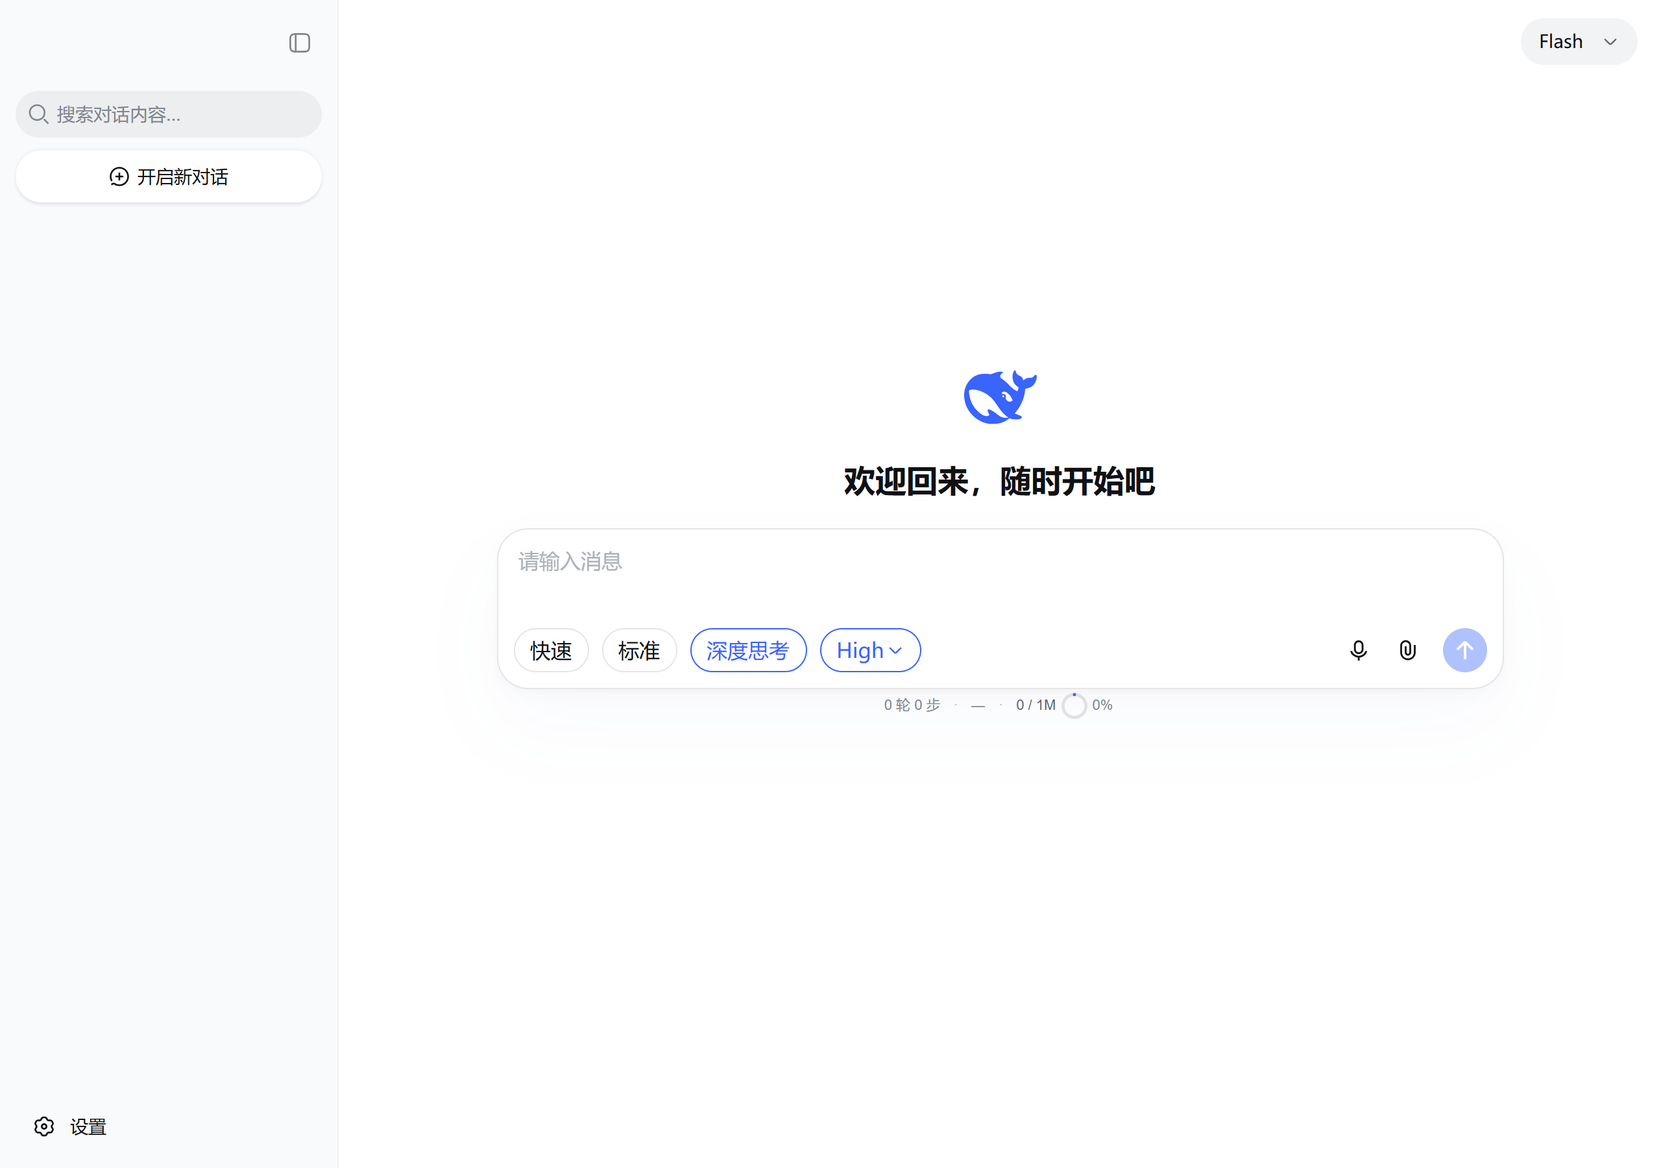
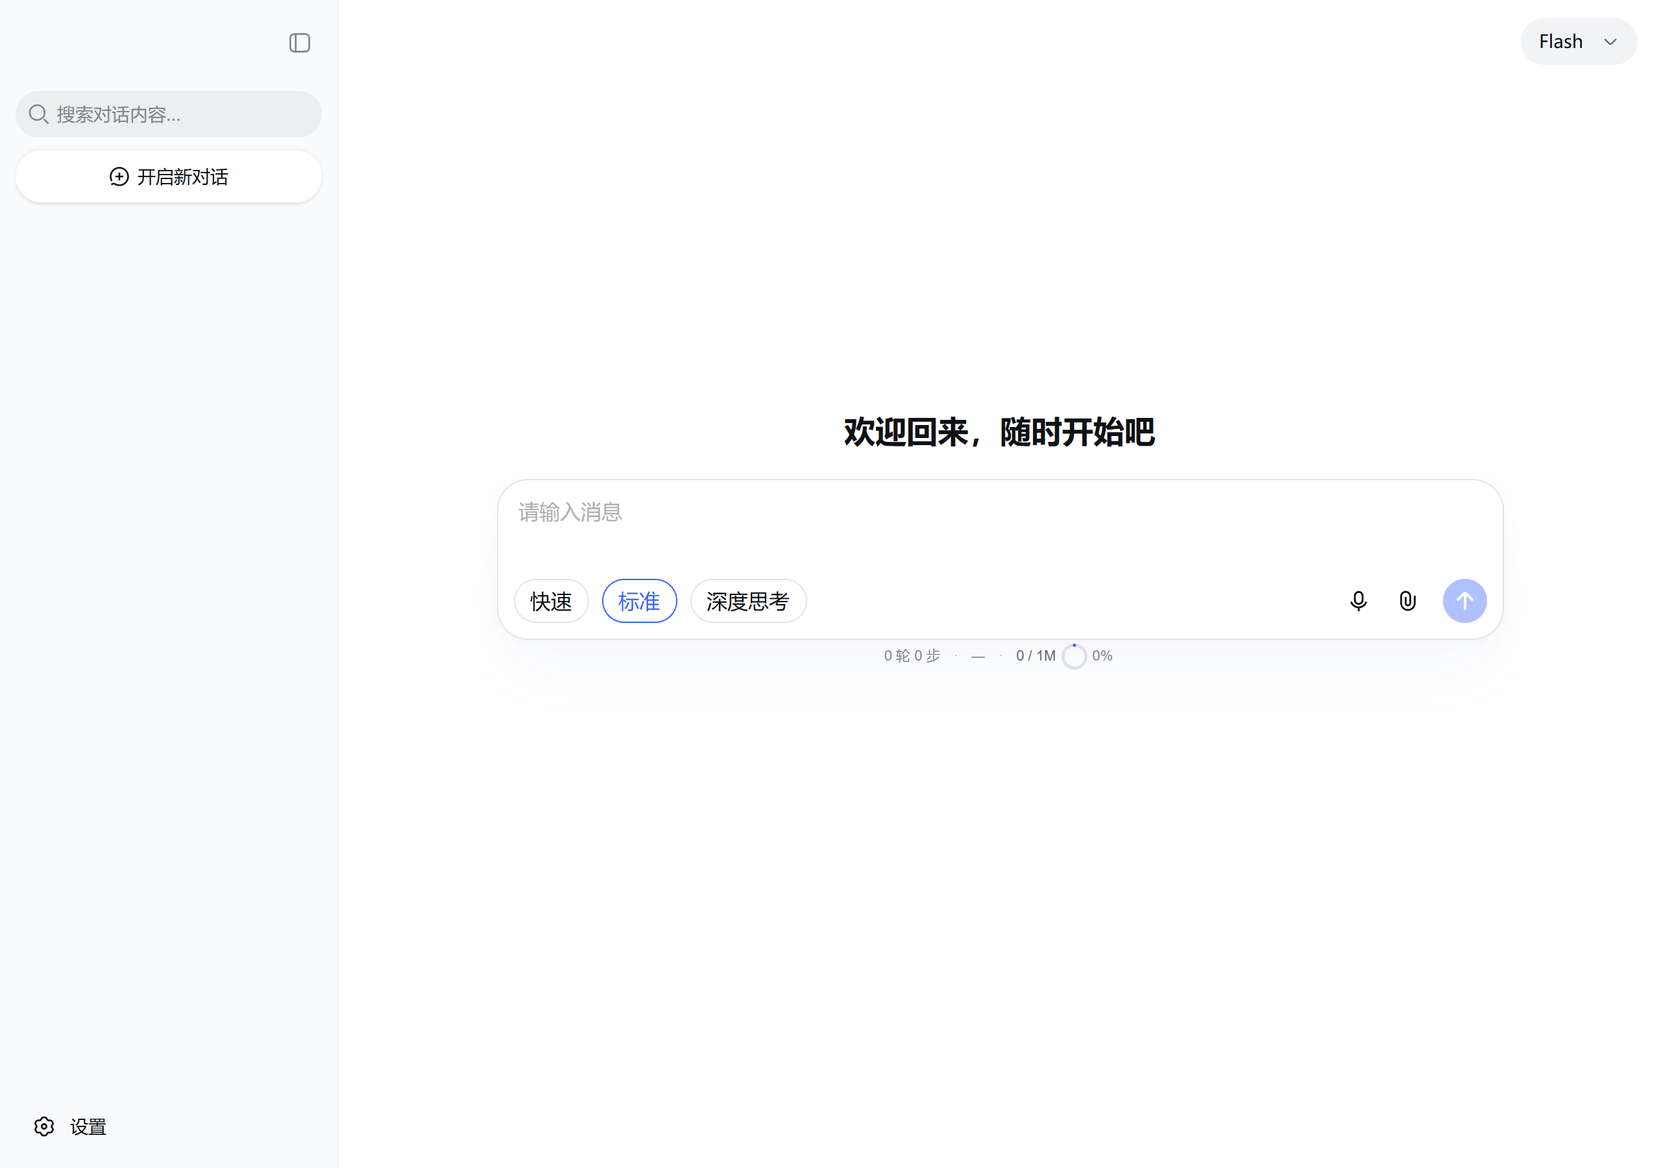
0.3.10：去掉官方标识，换中性图标，补齐可重建的打包脚本
界面与图形
- 删掉首页中央的鲸鱼标识，现在只剩欢迎语和输入框
- 启动器图标换成自己画的中性对话气泡（渐变底 + 白色圆角气泡），
  自适应前景与圆形图标各一套；ic_launcher_background 由近白改为 #1D3D8F
- 页面标题由 DeepSeek 改为 DS Chat，删除无引用的 DeepSeekLogo 组件

可重建
- 新增 android/build-apk.ps1：与 build-apk.sh 步骤一致的 PowerShell 版
- 两个脚本的工具链路径可用 ANDROID_BUILD_TOOLS / ANDROID_JAR / JAVA_HOME 覆盖，
  缺工具链或缺 web/dist 时直接报出缺的是哪个路径
- android/assets/** 不入库（构建产物，由脚本从 web/dist 拷入）

版本与文档
- 0.3.10 / versionCode 15；README + README.en + CHANGELOG + docs + NOTICE
  统一到 0.3.10：新截图、新图标、新的字节数与 SHA-256
- 截图重拍：首页、模式浮层、附件浮层、桌面端；补一张 icon-512
- 明确声明非官方、不使用官方标识；重新发布请换名换图

APK: ds-chat-0.3.10.apk, 2,030,945 字节,
SHA-256 7F195D11AFF745974C0B5437982ED857AE92955A10D3041AFE15541F1B8B7C91

diff --git a/web/src/components/session/Welcome.tsx b/web/src/components/session/Welcome.tsx
@@ -2,7 +2,6 @@ import { useIsMobile } from '../../app/viewport.js'
 import { useTranslate } from '../../i18n/index.js'
 import { ChatInput } from '../chatInput/ChatInput.js'
 import { StatsBar } from '../chatInput/StatsBar.js'
-import { DeepSeekLogo } from '../base/DeepSeekLogo.js'
 import { MobileHeader } from './MobileHeader.js'
 import { ModelPicker } from './ModelPicker.js'
 import styles from './Welcome.module.css'
@@ -30,9 +29,6 @@ export const Welcome = () => {
             margin: 'auto 0',
           }}
         >
-          <div style={{ color: 'var(--dsw-alias-brand-primary)', marginBottom: 16 }}>
-            <DeepSeekLogo size={isMobile ? 48 : 56} />
-          </div>
           <div className={styles.greeting}>{t('welcomeMessageChat250808')}</div>
         </div>
         <ChatInput sessionId={null} />

diff --git a/web/src/index.html b/web/src/index.html
@@ -4,7 +4,7 @@
     <meta charset="utf-8" />
     <meta name="viewport" content="width=device-width,initial-scale=1,viewport-fit=cover" />
     <meta name="theme-color" content="#ffffff" />
-    <title>DeepSeek</title>
+    <title>DS Chat</title>
     <script>
       /* 兼容补丁：Android 系统 WebView 常年不更新（不少国产 ROM 停在 Chrome 7x-9x），
          下列 API 在旧内核里缺失，一旦在渲染期被调用就会抛 TypeError，

diff --git a/README.en.md b/README.en.md
@@ -16,9 +16,9 @@
 <p align="center">
   <img alt="platform" src="https://img.shields.io/badge/Android-7.0%2B-3DDC84?logo=android&logoColor=white">
   <img alt="apk size" src="https://img.shields.io/badge/APK-2.0%20MB-2563EB">
-  <img alt="version" src="https://img.shields.io/badge/version-0.3.9-F59E0B">
+  <img alt="version" src="https://img.shields.io/badge/version-0.3.10-F59E0B">
   <img alt="license" src="https://img.shields.io/badge/license-MIT-111827">
-  <img alt="stars" src="https://img.shields.io/github/stars/__OWNER__/__REPO__?logo=github">
+  <img alt="stars" src="https://img.shields.io/github/stars/nhh311/ds-chat?logo=github">
 </p>
 
 ## First things first: this is not an official app
@@ -26,7 +26,7 @@
 DS Chat is a **third-party client written by one person**. It is not affiliated with, endorsed by, or connected to Hangzhou DeepSeek Artificial Intelligence Co., Ltd. It is not an official product; it does not redistribute or repackage any official binary, and its interface is not a copy of the official app.
 
 - **Where the code comes from.** `web/` is a rewrite on top of DeepSeek's **open-source** [chat-demo](https://github.com/deepseek-ai/chat-demo) (MIT). The Android side is a WebView shell written from scratch. Every line is in this repository.
-- **How the marks are used.** "DS" and the whale are used only to say *which service this app talks to* — nominative use. "DeepSeek", "深度求索" and the whale mark belong to DeepSeek; this project claims no rights over them.
+- **How the marks are used.** "DS" only says *which service this app talks to* — descriptive use. "DeepSeek", "深度求索" and the whale mark belong to DeepSeek; this project claims no rights over them. The UI and the icon carry **no** official marks: as of 0.3.10 even the whale on the home screen is gone, and the launcher icon is a neutral speech bubble.
 - **What you may do with it.** MIT: fork it, rename it, change the icon, ship it commercially. If you redistribute it, change the name and the icon so nobody mistakes it for the official product.
 - **Who to ask for support.** This repository — not DeepSeek support. They have nothing to do with this project.
 
@@ -46,7 +46,7 @@ DS Chat is a third-party client that turns DeepSeek's open API into a phone app:
 
 | | |
 | --- | --- |
-| Version | 0.3.9 (versionCode 14) |
+| Version | 0.3.10 (versionCode 15) |
 | Package | 2.0 MB, Android 7.0+ (minSdk 24 / targetSdk 35) |
 | Models | Flash / V4 Pro, both with a 1M-token context |
 | Protocol | Anthropic-compatible Messages: `POST {server}/anthropic/v1/messages` |
@@ -59,17 +59,17 @@ DS Chat is a third-party client that turns DeepSeek's open API into a phone app:
 | Chat | Modes & effort | Attachments |
 | :--: | :--: | :--: |
 | <img src="screenshots/01-welcome.png" width="230"> | <img src="screenshots/02-mode-panel.png" width="230"> | <img src="screenshots/22-attach-sheet.png" width="230"> |
-| Status line under the composer: rounds/steps, tokens, context ring | Modes laid out flat; the effort capsule appears only in deep thinking | The paperclip asks first: upload a file, or pick from the gallery |
+| Home: one status line at the bottom (rounds/steps, tokens, context ring) | Modes laid out flat; the effort capsule appears only in deep thinking | The paperclip asks first: upload a file, or pick from the gallery |
 
 | Token usage | Session stats | Privacy |
 | :--: | :--: | :--: |
 | <img src="screenshots/16-usage-panel.png" width="230"> | <img src="screenshots/18-stats-panel.png" width="230"> | <img src="screenshots/27-privacy-mobile.png" width="230"> |
 | Cache hit rate, uncached input / cache read / output, context usage | Rounds/steps, model time, TTFT, TPS, context breakdown | Which requests leave the phone, where the training toggle lives, local storage |
 
-| Desktop | Extensions: skills and MCP |
-| :--: | :--: |
-| <img src="screenshots/04-desktop.png" width="440"> | <img src="screenshots/05-extras.png" width="440"> |
-| Wide screens get a sidebar + conversation layout | Import skills as `.md` / JSON; add a streamable HTTP MCP server and test it |
+| Desktop | Extensions: skills and MCP | Icon |
+| :--: | :--: | :--: |
+| <img src="screenshots/04-desktop.png" width="420"> | <img src="screenshots/05-extras.png" width="420"> | <img src="screenshots/icon-512.png" width="110"> |
+| Wide screens get a sidebar + conversation layout | Import skills as `.md` / JSON; add a streamable HTTP MCP server and test it | A neutral speech bubble, no official marks |
 
 > Screenshots are real renders at 824×1830 (mobile) and 2560×1800 (desktop) — no mockups.
 
@@ -108,12 +108,12 @@ DS Chat is a third-party client that turns DeepSeek's open API into a phone app:
 
 ## Install
 
-Download `ds-chat-0.3.9.apk` (2.0 MB) from [Releases](https://github.com/__OWNER__/__REPO__/releases).
+Download `ds-chat-0.3.10.apk` (2.0 MB) from [Releases](https://github.com/nhh311/ds-chat/releases).
 
 ```
-file      ds-chat-0.3.9.apk
-size      2,047,331 bytes
-SHA-256   6C3DE4130255705468A02C113F634A86ECA4D34637CC510F8C4F48122F240251
+file      ds-chat-0.3.10.apk
+size      2,030,945 bytes
+SHA-256   7F195D11AFF745974C0B5437982ED857AE92955A10D3041AFE15541F1B8B7C91
 ```
 
 - Android 7.0 (API 24) and up; targetSdk 35
@@ -146,6 +146,15 @@ Android:
 cd android
 ./build-apk.sh    # needs Android SDK build-tools 35.0.0 and a JDK; see docs/BUILD.md
 ```
+
+On Windows without Git Bash, the same steps exist as a PowerShell script:
+
+```powershell
+cd android
+powershell -ExecutionPolicy Bypass -File .\build-apk.ps1
+```
+
+Both scripts print the APK's byte size and SHA-256 so you can compare against the numbers above.
 
 Prerequisites, signing and verification steps are in [docs/BUILD.md](docs/BUILD.md).
 
@@ -198,14 +207,14 @@ See [docs/PRIVACY.md](docs/PRIVACY.md) and the [DeepSeek privacy policy](https:/
 
 See [CHANGELOG.md](CHANGELOG.md). Last three releases:
 
+- **0.3.10** dropped the official marks from the home screen and the launcher; rebuilt with a neutral speech-bubble icon
 - **0.3.9** new Privacy section in settings: where data goes, where the training toggle lives, local usage and one-tap clearing
 - **0.3.8** voice clean-up: the transcript goes through the model once — filler words out, punctuation in, homophones fixed
-- **0.3.7** the paperclip asks "file or gallery" first, multi-select in the gallery, tapping an attachment previews it
 
 ## Credits
 
 - The frontend is based on DeepSeek's open-source [chat-demo](https://github.com/deepseek-ai/chat-demo) (MIT); much of the UI and interaction originates there
-- The whale icon and the "DeepSeek" name belong to DeepSeek
+- "DeepSeek", "深度求索" and the whale mark belong to DeepSeek. This project uses none of those marks; text mentions only identify the API it talks to
 - Hero image generated with MiniMax-H3-Image
 
 ## License

diff --git a/README.md b/README.md
@@ -16,9 +16,9 @@
 <p align="center">
   <img alt="platform" src="https://img.shields.io/badge/Android-7.0%2B-3DDC84?logo=android&logoColor=white">
   <img alt="apk size" src="https://img.shields.io/badge/APK-2.0%20MB-2563EB">
-  <img alt="version" src="https://img.shields.io/badge/version-0.3.9-F59E0B">
+  <img alt="version" src="https://img.shields.io/badge/version-0.3.10-F59E0B">
   <img alt="license" src="https://img.shields.io/badge/license-MIT-111827">
-  <img alt="stars" src="https://img.shields.io/github/stars/__OWNER__/__REPO__?logo=github">
+  <img alt="stars" src="https://img.shields.io/github/stars/nhh311/ds-chat?logo=github">
 </p>
 
 ## 先说清楚：这不是官方 App
@@ -26,7 +26,7 @@
 DS Chat 是一个**个人开发的第三方客户端**。它与杭州深度求索人工智能基础技术研究有限公司（DeepSeek）没有隶属、合作或背书关系，不是官方产品；不分发、不再打包任何官方安装包，界面也不是官方 App 的复刻。
 
 - **代码从哪来**：`web/` 是在 DeepSeek **开源**的 [chat-demo](https://github.com/deepseek-ai/chat-demo)（MIT）上重写的，Android 端是自己写的 WebView 壳。全部源码都在这个仓库里，可以逐行对照。
-- **商标怎么用**：名称里的 "DS"、界面与图标里的鲸鱼，只用来表明"这个软件连的是 DeepSeek 的接口"，属于识别性使用；"DeepSeek"、"深度求索" 及鲸鱼标识归深度求索所有，本项目不主张任何权利。
+- **商标怎么用**：名称里的 "DS" 只用来表明"这个软件连的是 DeepSeek 的接口"，属于描述性使用；"DeepSeek"、"深度求索" 及其鲸鱼标识归深度求索所有，本项目不主张任何权利。界面与图标里**没有**使用官方标识——0.3.10 起连首页的鲸鱼也删掉了，图标换成了一个中性的对话气泡。
 - **你可以怎么用**：MIT 许可，可以 fork、改名、换图标、商用。如果重新发布，请换掉名称与图标，别让人误以为是官方产品。
 - **出问题找谁**：找这个仓库，不要找官方客服——官方没有参与这个项目。
 
@@ -46,7 +46,7 @@ DS Chat 是一个自己动手写的第三方客户端：不用自建后端、不
 
 | 项目 | 值 |
 | --- | --- |
-| 版本 | 0.3.9（versionCode 14） |
+| 版本 | 0.3.10（versionCode 15） |
 | 安装包 | 2.0 MB，Android 7.0+（minSdk 24 / targetSdk 35） |
 | 模型 | Flash / V4 Pro，均为 1M 上下文 |
 | 协议 | Anthropic 兼容 Messages：`POST {服务地址}/anthropic/v1/messages` |
@@ -59,17 +59,17 @@ DS Chat 是一个自己动手写的第三方客户端：不用自建后端、不
 | 对话 | 模式与思考强度 | 附件 |
 | :--: | :--: | :--: |
 | <img src="screenshots/01-welcome.png" width="230"> | <img src="screenshots/02-mode-panel.png" width="230"> | <img src="screenshots/22-attach-sheet.png" width="230"> |
-| 输入框下方的状态条：轮/步、token 总量、上下文环形指示 | 三种模式平铺，选了深度思考才出现强度胶囊 | 点回形针先问一句：上传文件，还是从相册选 |
+| 首页：底部一行状态条（轮/步、token 总量、上下文环） | 三种模式平铺，选了深度思考才出现强度胶囊 | 点回形针先问一句：上传文件，还是从相册选 |
 
 | Token 用量 | 会话统计 | 隐私 |
 | :--: | :--: | :--: |
 | <img src="screenshots/16-usage-panel.png" width="230"> | <img src="screenshots/18-stats-panel.png" width="230"> | <img src="screenshots/27-privacy-mobile.png" width="230"> |
 | 缓存命中率、未缓存输入 / 缓存读取 / 输出、上下文占用 | 轮/步、模型用时、TTFT、TPS、上下文三段分布 | 哪些请求会离开手机、训练开关在哪、本机占用 |
 
-| 桌面端 | 扩展：技能与 MCP |
-| :--: | :--: |
-| <img src="screenshots/04-desktop.png" width="440"> | <img src="screenshots/05-extras.png" width="440"> |
-| 宽屏是「边栏 + 对话」两栏，模式与强度平铺在输入框里 | 技能可以导入 `.md` / JSON，MCP 填流式 HTTP 地址，可测连接 |
+| 桌面端 | 扩展：技能与 MCP | 图标 |
+| :--: | :--: | :--: |
+| <img src="screenshots/04-desktop.png" width="420"> | <img src="screenshots/05-extras.png" width="420"> | <img src="screenshots/icon-512.png" width="110"> |
+| 宽屏是「边栏 + 对话」两栏，模式平铺在输入框里 | 技能可以导入 `.md` / JSON，MCP 填流式 HTTP 地址，可测连接 | 中性的对话气泡，不带任何官方标识 |
 
 > 截图来自移动端 824×1830、桌面端 2560×1800 视口下的真实渲染，没有做设计稿美化。
 
@@ -109,12 +109,12 @@ DS Chat 是一个自己动手写的第三方客户端：不用自建后端、不
 
 ## 安装
 
-从 [Releases](https://github.com/__OWNER__/__REPO__/releases) 下 `ds-chat-0.3.9.apk`（2.0 MB）：
+从 [Releases](https://github.com/nhh311/ds-chat/releases) 下 `ds-chat-0.3.10.apk`（2.0 MB）：
 
 ```
-文件名    ds-chat-0.3.9.apk
-大小      2,047,331 字节
-SHA-256   6C3DE4130255705468A02C113F634A86ECA4D34637CC510F8C4F48122F240251
+文件名    ds-chat-0.3.10.apk
+大小      2,030,945 字节
+SHA-256   7F195D11AFF745974C0B5437982ED857AE92955A10D3041AFE15541F1B8B7C91
 ```
 
 - Android 7.0（API 24）及以上；targetSdk 35
@@ -147,6 +147,15 @@ Android：
 cd android
 ./build-apk.sh    # 需要 Android SDK build-tools 35.0.0 与 JDK，见 docs/BUILD.md
 ```
+
+Windows 上不想装 Git Bash 的话，同一个脚本有 PowerShell 版（步骤完全一致）：
+
+```powershell
+cd android
+powershell -ExecutionPolicy Bypass -File .\build-apk.ps1
+```
+
+两个脚本都会打印 APK 的字节数与 SHA-256，可以直接和上面 Release 里的数字对照。
 
 完整的前置依赖、签名与验证步骤见 [docs/BUILD.md](docs/BUILD.md)。
 
@@ -201,14 +210,14 @@ App 只会发四类请求，全部发给你填的服务地址：
 
 见 [CHANGELOG.md](CHANGELOG.md)。最近三版：
 
+- **0.3.10** 去掉首页与图标里的官方标识，换成一个中性的对话气泡图标（仓库里重新出包）
 - **0.3.9** 设置里新增"隐私"分组：数据去了哪里、训练开关在哪、本机占用与一键清除
 - **0.3.8** 语音整理：转写完先让模型过一遍，去口头语、补标点、改同音错字
-- **0.3.7** 点回形针先问"上传文件还是选相册"，相册支持多选；点附件变成预览
 
 ## 致谢
 
 - 前端源自 DeepSeek 开源的 [chat-demo](https://github.com/deepseek-ai/chat-demo)（MIT），界面与交互的底子来自那里
-- 鲸鱼图标与 "DeepSeek" 名称归杭州深度求索所有
+- "DeepSeek"、"深度求索" 名称与鲸鱼标识归杭州深度求索所有；本项目不使用这些标识，仅以文字指明所连的接口
 - 头图由 MiniMax-H3-Image 生成
 
 ## 许可

diff --git a/docs/BUILD.md b/docs/BUILD.md
@@ -45,6 +45,13 @@ cd android
 ./build-apk.sh
 ```
 
+Windows 上没有 Git Bash（或者不想为一次打包装一个）时，用步骤完全一致的 PowerShell 版：
+
+```powershell
+cd android
+powershell -ExecutionPolicy Bypass -File .\build-apk.ps1
+```
+
 脚本按顺序做这些事：
 
 1. `web/dist` 拷进 `build/assetsroot/assets/`，页面从 `file:///android_asset/index.html` 打开
@@ -55,7 +62,7 @@ cd android
 6. `zipalign -p 4` 对齐，`apksigner` 用 `debug.keystore` 签名
 7. `apksigner verify --print-certs` 打印证书并 `ls -l` 产物
 
-产物在 `android/build/dsk-chat-0.3.9.apk`。
[1 lines of base64/hex data omitted]
 
 ### 工具链路径
 
@@ -77,19 +84,19 @@ JAVA_HOME=/usr/lib/jvm/temurin-17-jdk \
 自己换一把也行，但那样就装不到官方发布的版本上了，得先卸载。签名证书指纹：
 
 ```bash
-apksigner verify --print-certs android/build/dsk-chat-0.3.9.apk
+apksigner verify --print-certs android/build/dsk-chat-0.3.10.apk
 ```
 
 ### 安装与验证
 
 ```bash
-adb install -r android/build/dsk-chat-0.3.9.apk
+adb install -r android/build/dsk-chat-0.3.10.apk
 adb logcat -s DSKCHAT          # 原生侧日志
 ```
 
 ## 发版清单
 
-1. 改 `android/build-apk.sh` 里的 `VERSION_CODE` / `VERSION_NAME`，以及 `AndroidManifest.xml` 里的同名属性（清单里的值会被 link 参数覆盖，但保持一致更清楚）
+1. 改 `android/build-apk.sh` 与 `android/build-apk.ps1` 里的 `VERSION_CODE` / `VERSION_NAME` / `APP_NAME`，以及 `AndroidManifest.xml` 里的同名属性（清单里的值会被 link 参数覆盖，但保持一致更清楚）
 2. 改 `web/package.json` 的 `version`（它会写进 HTML 的 `application-version` meta）与 `package-lock.json` 顶部的 `version`
 3. 更新 `CHANGELOG.md`，构建 APK
 4. 计算 SHA-256 并写进 Release 说明：`certutil -hashfile <apk> SHA256`（Windows）或 `sha256sum`

diff --git a/NOTICE.md b/NOTICE.md
@@ -18,14 +18,14 @@ Copyright (c) 2026 DeepSeek
 本项目是**独立开发的第三方客户端**，与杭州深度求索人工智能基础技术研究有限公司没有隶属、合作、赞助或背书关系，也不是官方产品。具体来说：
 
 - 没有分发、反编译、注入或重新签名任何官方安装包；
-- 没有使用官方 App 的素材；界面是在上面提到的 MIT 开源 demo 上重新设计的；
-- 名称 "DS Chat"、界面与图标中的鲸鱼，属于**识别性使用**（nominative use），只为说明本软件连接的是哪一家的接口，不暗示任何官方身份；
+- 没有使用官方 App 的素材；界面是在上面提到的 MIT 开源 demo 上重新设计的。0.3.10 起，首页与启动器里连鲸鱼标识也移除了，图标是自己画的中性对话气泡；
+- 名称 "DS Chat"、"DeepSeek" 字样属于**描述性使用**（nominative use），只为说明本软件连接的是哪一家的接口，不暗示任何官方身份；
 - 官方没有为本项目提供支持，遇到问题请在本仓库反馈。
 
 ## 商标
 
-- "DeepSeek"、"深度求索" 及其鲸鱼标识归杭州深度求索人工智能基础技术研究有限公司所有，本项目不主张任何权利。
-- 名称 "DS Chat"、界面与图标中的鲸鱼，仅用于说明本软件对接的是 DeepSeek 的 API，**不表示**与 DeepSeek 存在隶属、合作或背书关系。
+- "DeepSeek"、"深度求索" 及其鲸鱼标识归杭州深度求索人工智能基础技术研究有限公司所有，本项目不主张任何权利，也不在自己的界面与图标里使用这些标识。
+- 名称 "DS Chat" 仅用于说明本软件对接的是 DeepSeek 的 API，**不表示**与 DeepSeek 存在隶属、合作或背书关系。
 - 如果你要基于本项目再发布一个客户端，请替换名称与图标，并在 README 显著位置声明非官方，避免让人误以为是官方产品。
 
 ## 第三方组件

diff --git a/CHANGELOG.md b/CHANGELOG.md
@@ -2,6 +2,14 @@
 
 版本号跟 APK 的 `versionName` 走。`0.1.0` 到 `0.2.1` 只留了安装包，没有留下逐条说明，所以前几版写得粗一些。
 
+## 0.3.10 — 去掉官方标识，换中性图标
+
+- 首页中央的鲸鱼标识删除：现在只剩一句「欢迎回来，随时开始吧」和输入框，界面里不再出现任何官方图形
+- 启动器图标换成自己画的对话气泡（蓝色对角渐变 + 白色圆角气泡），自适应前景与圆形图标各自一套；`ic_launcher_background` 从近白改成深蓝，避免白色前景看不见
+- 仓库里第一次能完整重建：新增 `android/build-apk.ps1`（与 `build-apk.sh` 步骤一致，给没有 Git Bash 的 Windows），两个脚本的工具链路径改成可用 `ANDROID_BUILD_TOOLS` / `ANDROID_JAR` / `JAVA_HOME` 覆盖，并在缺工具链或缺 `web/dist` 时直接报出缺的是哪个路径
+- `android/assets/**` 不再入库（那是构建产物），重建时由脚本从 `web/dist` 拷入
[1 lines of base64/hex data omitted]
+
 ## 0.3.9 — 隐私：数据去向、训练开关、本机数据
 
 - 设置里新增「隐私」分组，和通用设置、数据管理、扩展并列；窄屏下四个 tab 均分宽度，不折行
